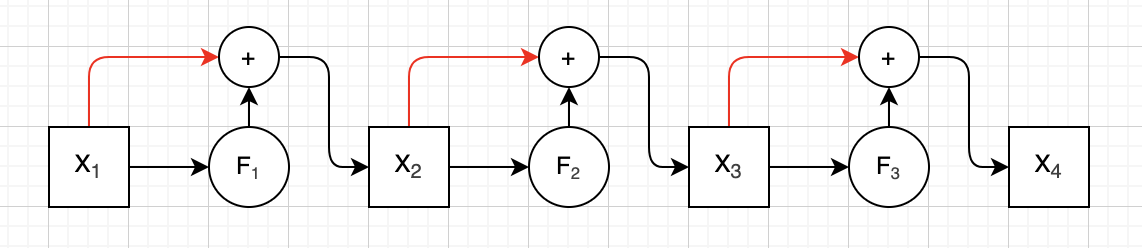
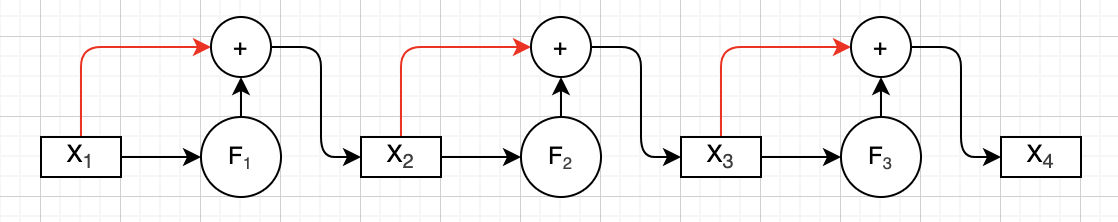
Update DSv4.md

Changed region(s): [[0.0, 0.0541, 1.0, 0.8919], [0.3345, 0.2432, 0.3649, 0.2703]]

diff --git a/DSv4.md b/DSv4.md
@@ -1,17 +1,10 @@
-# 图解DeepSeek-V4(Pro)推理公式
+# 图解DeepSeek-V4(Pro)核心公式
 
-主要参考资料：
+如果你和我一样，对人工智能（AI）、深度学习（DL）、人工神经网络（ANN）、大语言模型（LLM）感兴趣，那么可能学着学着就学到了DeepSeek模型，然后就准备看它的论文，然后就被论文里的数学公式吓退了。如果你符合我描述的情况，那么这篇文章也许可以帮助到你。
 
-* 论文：[Attention Is All You Need](https://arxiv.org/abs/1706.03762)
-* 论文：[DeepSeek-V4: Towards Highly Efficient Million-Token Context Intelligence](https://huggingface.co/deepseek-ai/DeepSeek-V4-Pro/blob/main/DeepSeek_V4.pdf)
-* 论文：[DeepSeek-V3.2: Pushing the Frontier of Open Large Language Models](https://arxiv.org/abs/2512.02556)
-* 论文：[DeepSeek-V3 Technical Report](https://arxiv.org/abs/2412.19437)
-* 论文：[Hyper-Connections](https://arxiv.org/abs/2409.19606)
-* 配置：[Hugging Face config.json](https://huggingface.co/deepseek-ai/DeepSeek-V4-Pro/blob/main/config.json)
+本文主要介绍DeepSeek-V4论文里的数学公式，而且主要是站在“推理”的角度。这篇论文很长（共58页），里面涉及到的内容很多，我也没有全部看明白。不过，我基本上把里面的数学公式看懂了。为了帮助自己理解这些公式，我画了好多图。我觉得这些图可能对其他读者也有用，所以就写了这篇文章。
 
-
-
-和所有论文一样，DeepSeek-V4的论文（对于普通人来说）挺难读的。DeepSeek-V4论文里包含了大量信息，但最难懂的，还是数学公式。本文将站在“推理”的角度，用大量示意图来帮助读者理解DeepSeek-V4论文中的相关公式。
+本文没有用AI润色，文字都是自己敲的，图都是自己画的，原滋原味。有一些我不确定的地方，我问了AI。一些AI的回答，我以引用的形式贴到了文字中，一眼就能看出来。我还在慢慢学习。本文可能难免有错误和疏漏，如果我发现的话，会在下一版改进。
 
 
 
@@ -572,7 +565,7 @@ $$
 * 为了达到这个效果，输入输出也要扩展 $n_{hc}$ 倍。原来的输入形状是 $[1×d]$ ，扩展后就变成了 $[n_{hc} \times d]$ 。如果是第一层的输入，直接把原始输入复制 $n_{hc}$ 份就好了。
 * 然而，我们并不改变每一层的函数 $F$ 。于是，我们需要使用矩阵 $A$ 给扩展后的输入做一个线性变换，然后再送入函数 $F$ 。这就是公式里 $A_l X_l$ 的含义（下图蓝色箭头）。
 * 函数的输出形状还是 $[1×d]$ ，于是我们需要矩阵 $C$ ，再做一次线性变换，把输出形状也变成 $[n_{hc} \times d]$ 。这就是公式里 $C_l \mathcal{F}_l(...)$ 的含义（下图绿色箭头）。
-* 然后就是真正的残差值计算了，这里用了矩阵 $B$ 和输入相乘。这就是公式里 $B_l X_l$ 的含义（下图红色箭头）。
+* 然后就是把输入加到残差值里，这里需要使用矩阵 $B$ 和输入相乘。这就是公式里 $B_l X_l$ 的含义（下图红色箭头）。
 
 这个公式完整的计算细节，见下图（图里 $n_{hc}$ 取值3）。这里提到所有矩阵的形状，都画在图里了。
 
@@ -644,11 +637,18 @@ $$
 
 
 
-## 其他细节
+## 总结
+
+本文主要站在推理视角，介绍了DeepSeek-V4核心公式。DeepSeek-V4论文信息量太大了，里面还有很多的细节，本文没有讲到，例如位置编码（RoPE）、Muon优化器等等。等我对这篇论文有了更深的理解，会继续写其他文章深入介绍。
 
 
 
-### RoPE
+## 主要参考资料
 
-TODO
+* 论文：[Attention Is All You Need](https://arxiv.org/abs/1706.03762)
+* 论文：[DeepSeek-V4: Towards Highly Efficient Million-Token Context Intelligence](https://huggingface.co/deepseek-ai/DeepSeek-V4-Pro/blob/main/DeepSeek_V4.pdf)
+* 论文：[DeepSeek-V3.2: Pushing the Frontier of Open Large Language Models](https://arxiv.org/abs/2512.02556)
+* 论文：[DeepSeek-V3 Technical Report](https://arxiv.org/abs/2412.19437)
+* 论文：[Hyper-Connections](https://arxiv.org/abs/2409.19606)
+* 配置：[Hugging Face config.json](https://huggingface.co/deepseek-ai/DeepSeek-V4-Pro/blob/main/config.json)
 